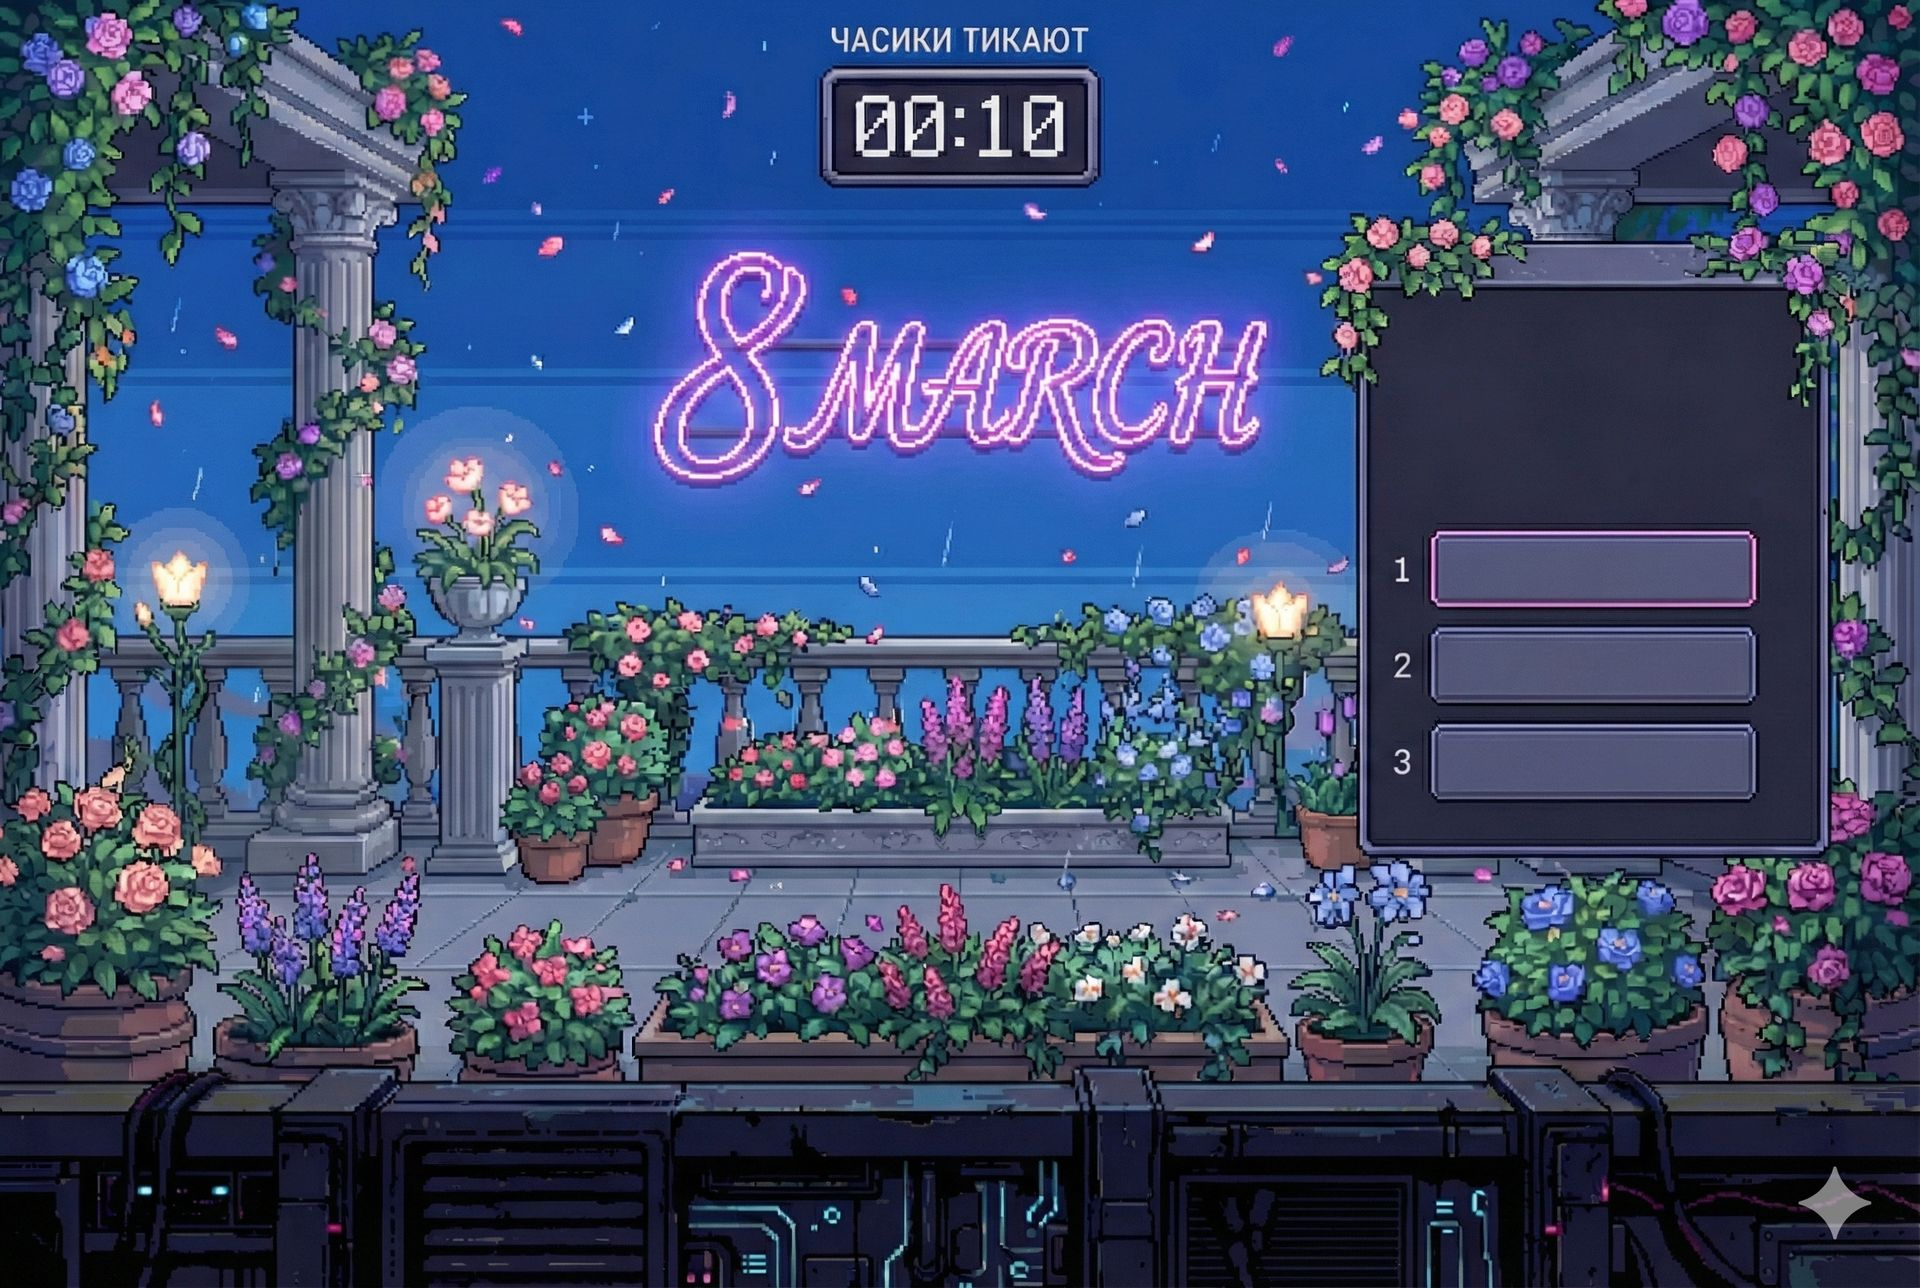
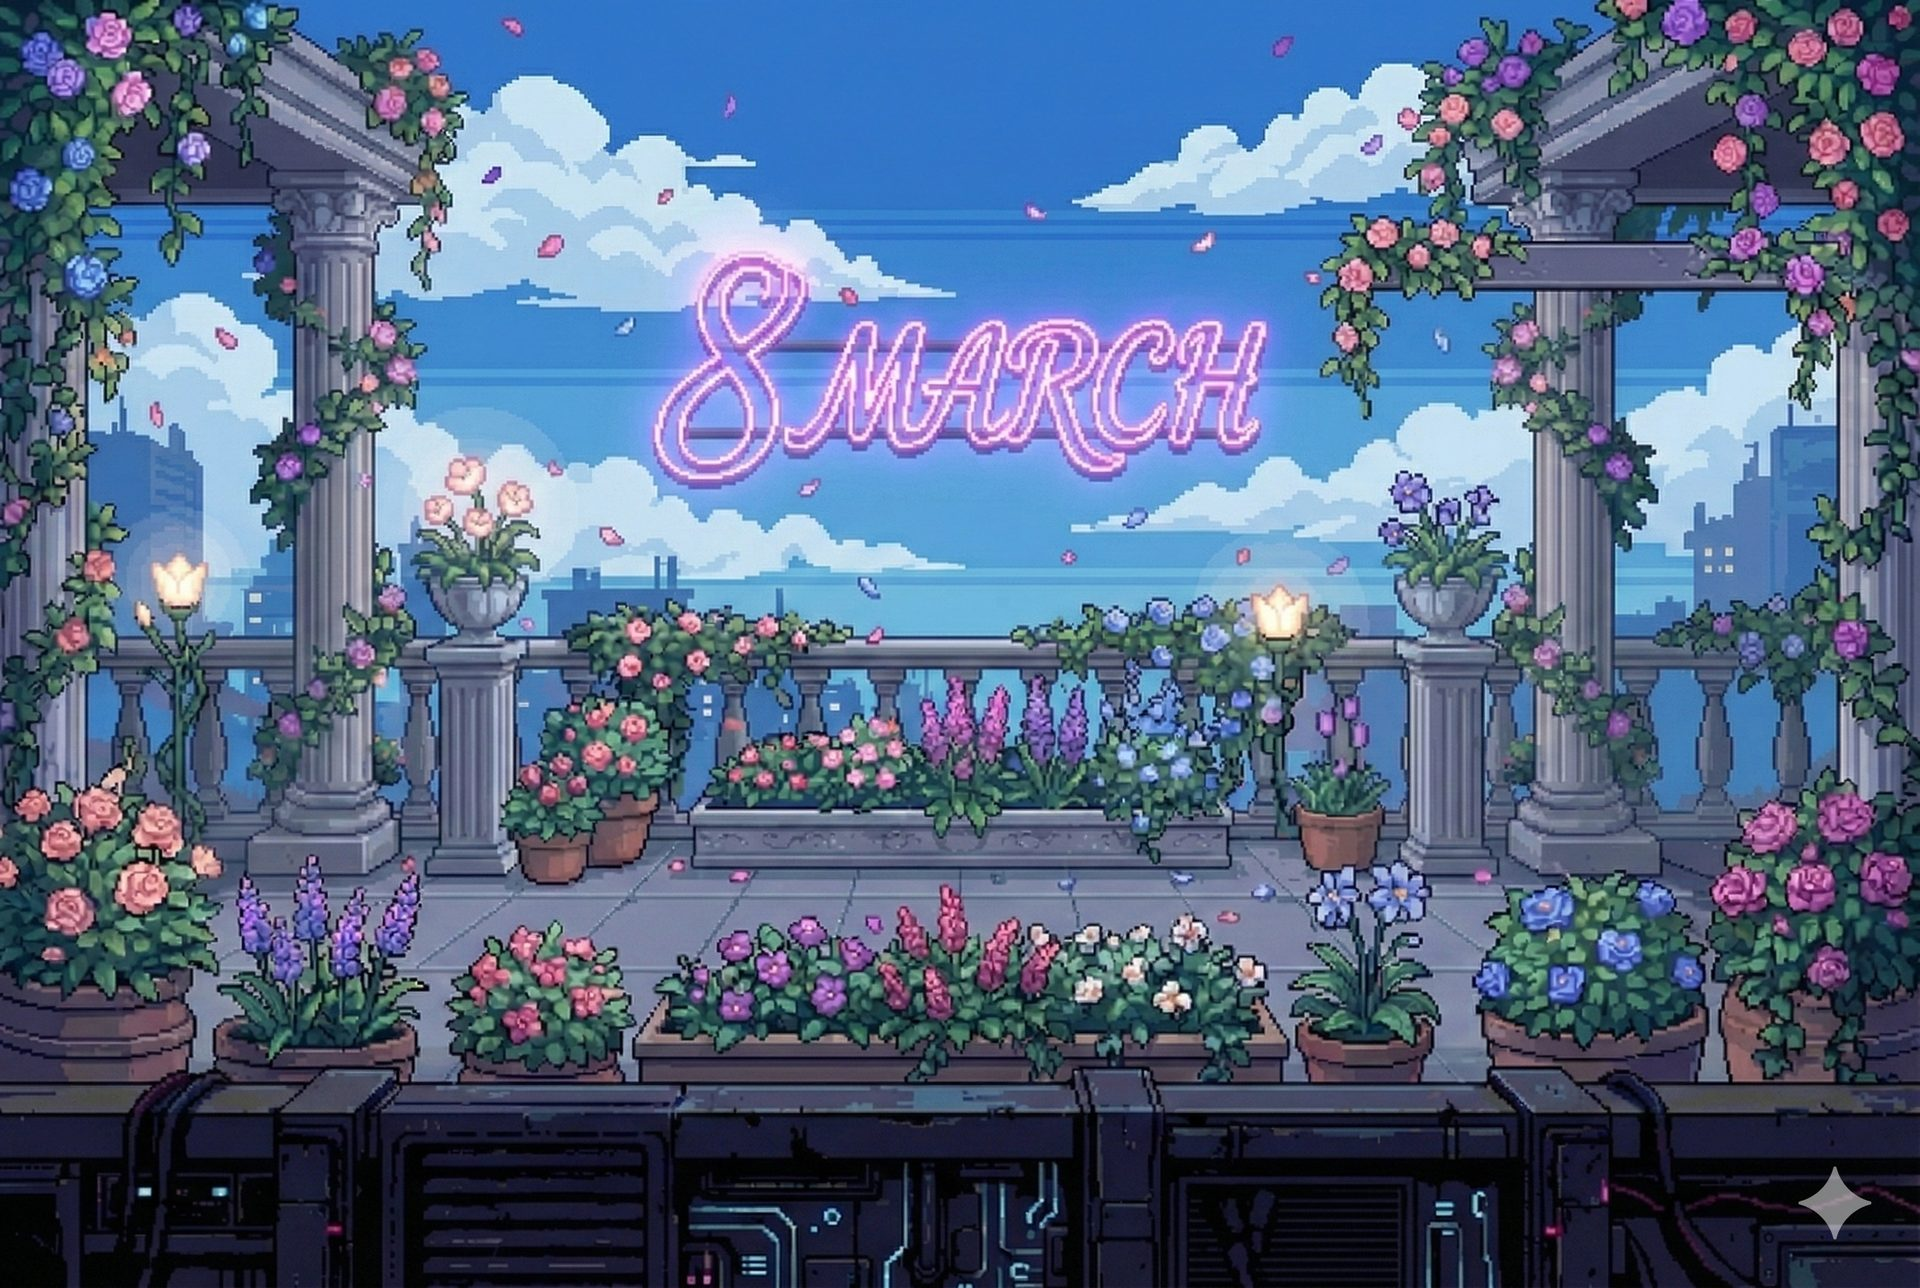
Quiz UI: right-side panel matching mockup + clean background without baked-in timer

diff --git a/index.html b/index.html
@@ -512,48 +512,29 @@
             50% { opacity: 0.4; }
         }
 
-        .quiz-body {
-            display: flex;
-            align-items: flex-start;
-            gap: 20px;
-            width: 100%;
-            max-width: 900px;
-            margin: 0 auto;
-            flex: 1;
+        #quizScreen {
+            align-items: center;
+            justify-content: center;
+            padding: 20px 30px;
         }
 
-        .quiz-char-area {
-            flex-shrink: 0;
-            text-align: center;
-        }
-
-        .quiz-char-img {
-            width: 160px;
-            height: 220px;
-            object-fit: contain;
-            filter: drop-shadow(0 0 15px rgba(233, 30, 99, 0.3));
-        }
-
-        .quiz-char-name {
-            font-size: 8px;
-            color: #ffeb3b;
-            margin-top: 6px;
-        }
-
-        .quiz-main {
-            flex: 1;
+        .quiz-panel {
+            background: rgba(12, 12, 30, 0.85);
+            border: 3px solid #555;
+            border-radius: 12px;
+            padding: 20px 16px;
+            width: 340px;
+            align-self: flex-end;
             display: flex;
             flex-direction: column;
             gap: 12px;
         }
 
         .quiz-question-card {
-            background: rgba(12, 12, 30, 0.85);
-            border: 3px solid #9c27b0;
-            border-radius: 12px;
-            padding: 20px 16px;
+            background: rgba(20, 20, 40, 0.7);
+            border-radius: 8px;
+            padding: 16px 14px;
             text-align: center;
-            box-shadow: 0 0 30px rgba(156, 39, 176, 0.15);
         }
 
         .quiz-question-num {
@@ -578,24 +559,23 @@
         .quiz-answer-btn {
             font-family: 'Press Start 2P', cursive;
             font-size: 9px;
-            padding: 14px 16px;
-            background: rgba(26, 26, 42, 0.9);
-            border: 3px solid #444;
-            border-radius: 8px;
+            padding: 12px 14px;
+            background: rgba(40, 40, 60, 0.9);
+            border: 2px solid #555;
+            border-radius: 6px;
             color: #fff;
             cursor: pointer;
             transition: all 0.2s;
             text-align: left;
             display: flex;
             align-items: center;
-            gap: 12px;
+            gap: 10px;
             line-height: 1.6;
         }
 
         .quiz-answer-btn:hover:not(.disabled) {
             border-color: #e91e63;
-            background: rgba(37, 21, 37, 0.9);
-            transform: scale(1.02);
+            background: rgba(50, 30, 50, 0.9);
         }
 
         .quiz-answer-btn.disabled { cursor: default; pointer-events: none; }
@@ -766,10 +746,9 @@
             .outfit-panel { max-width: 100%; }
             .outfit-card-img-wrap { height: 80px; }
 
-            .quiz-body { flex-direction: column; align-items: center; }
-            .quiz-char-area { display: flex; align-items: center; gap: 12px; }
-            .quiz-char-img { width: 80px; height: 110px; }
-            .quiz-answer-btn { font-size: 8px; padding: 12px; }
+            #quizScreen { padding: 20px 10px; }
+            .quiz-panel { width: 100%; max-width: 100%; align-self: center; }
+            .quiz-answer-btn { font-size: 8px; padding: 10px 12px; }
             .quiz-question-text { font-size: 9px; }
 
             .results-score-big { font-size: 36px; }
@@ -862,19 +841,16 @@
                 <div class="quiz-timer-display" id="quizTimerDisplay">00:30</div>
                 <div class="quiz-progress-bar" id="quizProgressBar"></div>
             </div>
-            <div class="quiz-body">
-                <div class="quiz-char-area">
-                    <img class="quiz-char-img" id="quizCharImg" src="" alt="">
-                    <div class="quiz-char-name" id="quizCharName"></div>
+            <!-- Hidden elements for JS compatibility -->
+            <img id="quizCharImg" src="" alt="" style="display:none">
+            <div id="quizCharName" style="display:none"></div>
+            <div id="quizScoreDisplay" style="display:none"></div>
+            <div class="quiz-panel">
+                <div class="quiz-question-card">
+                    <div class="quiz-question-num" id="quizQuestionNum"></div>
+                    <div class="quiz-question-text" id="quizQuestionText"></div>
                 </div>
-                <div class="quiz-main">
-                    <div class="quiz-question-card">
-                        <div class="quiz-question-num" id="quizQuestionNum"></div>
-                        <div class="quiz-question-text" id="quizQuestionText"></div>
-                    </div>
-                    <div class="quiz-answers" id="quizAnswers"></div>
-                    <div class="quiz-score-display" id="quizScoreDisplay"></div>
-                </div>
+                <div class="quiz-answers" id="quizAnswers"></div>
             </div>
             <div class="quiz-feedback" id="quizFeedback"></div>
         </div>
